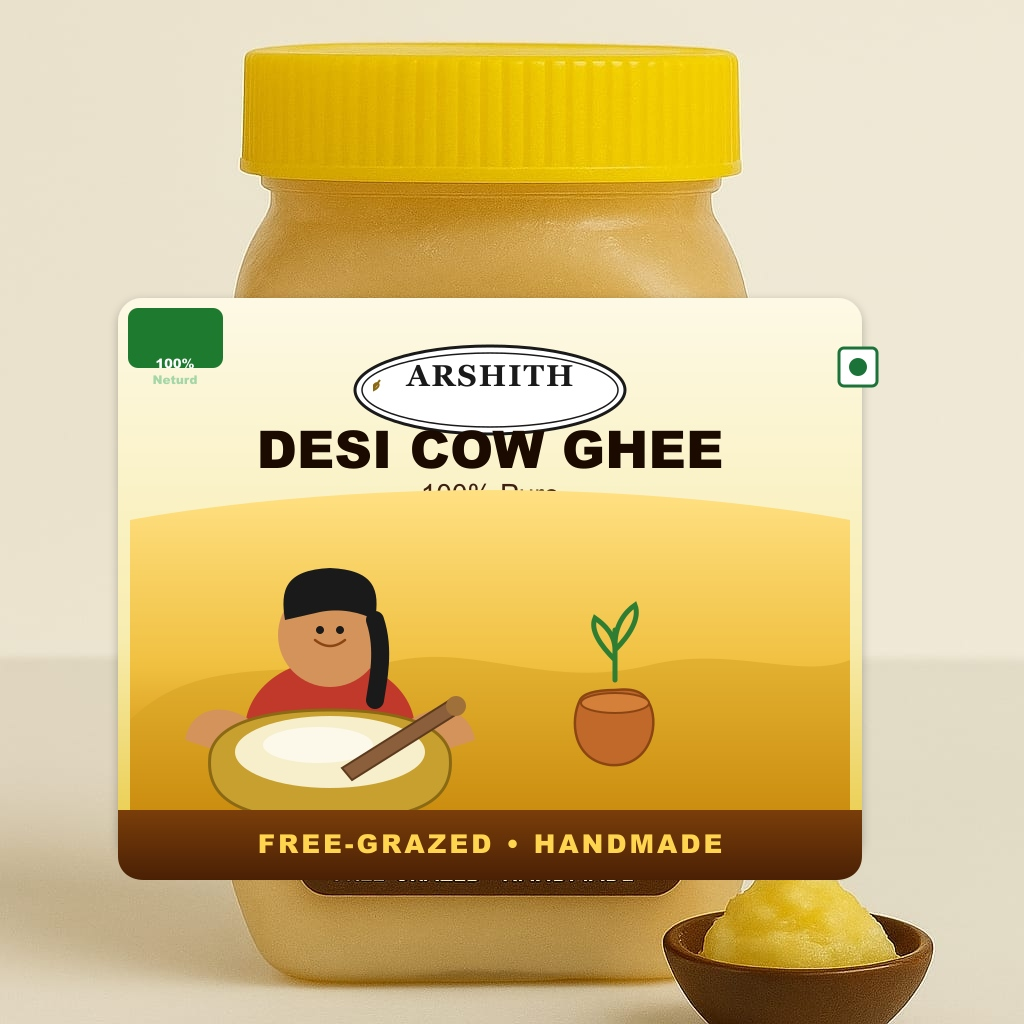
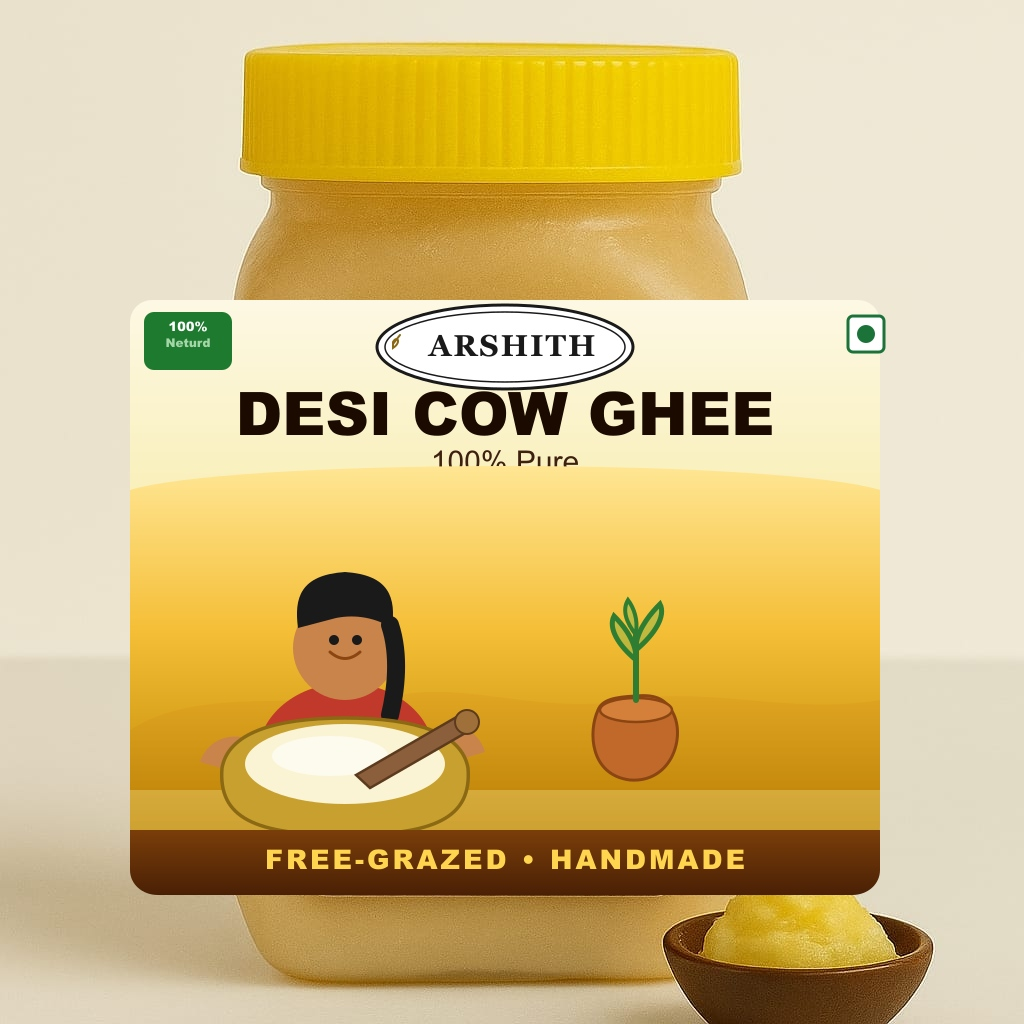
Fix cow ghee front image: label now fits naturally inside jar matching buffalo ghee style

Changed region(s): [[0.0938, 0.2812, 0.875, 0.875], [0.8125, 0.2812, 0.875, 0.4062]]

diff --git a/backend/cow_ghee_front_final.js b/backend/cow_ghee_front_final.js
@@ -1,0 +1,189 @@
+const sharp = require('sharp');
+const fs = require('fs');
+const path = require('path');
+
+// The buffalo jar is 1024x1024.
+// Looking at the label on the original buffalo jar:
+// The label rectangle sits at approximately:
+//   left: ~130, right: ~880 (width ~750)
+//   top: ~345, bottom: ~880 (height ~535)
+//   rounded corners ~22px
+// The label has:
+//   - cream/light yellow background
+//   - top section: 100% Neturd badge (top-left), ARSHITH oval (center), veg dot (top-right)
+//   - DESI [PRODUCT] GHEE bold title
+//   - 100% Pure subtitle
+//   - golden illustration area with woman churning, clay pot, plant
+//   - dark brown footer "FREE-GRAZED • HANDMADE"
+
+const BUFFALO_JAR = 'C:/Users/KRANTI/.gemini/antigravity-ide/brain/825c2531-0eff-4b78-80d4-3401ae54cf02/.user_uploaded/media_1791019439149.jpg';
+
+const TARGET_DIRS = [
+  'c:/Users/KRANTI/Downloads/Arshith_Fresh-main (2)/Arshith_Fresh-main/assets/images/products',
+  'c:/Users/KRANTI/Downloads/Arshith_Fresh-main (2)/Arshith_Fresh-main/frontend/assets/images/products',
+];
+
+// SVG is 1024x1024, label is placed exactly at the same position as the buffalo label
+function makeDesiCowLabel() {
+  return `<svg width="1024" height="1024" viewBox="0 0 1024 1024" xmlns="http://www.w3.org/2000/svg">
+  <defs>
+    <linearGradient id="labelBg" x1="0%" y1="0%" x2="0%" y2="100%">
+      <stop offset="0%" stop-color="#fdf8e4"/>
+      <stop offset="55%" stop-color="#f7eba4"/>
+      <stop offset="100%" stop-color="#e8d060"/>
+    </linearGradient>
+    <linearGradient id="illustBg" x1="0%" y1="0%" x2="0%" y2="100%">
+      <stop offset="0%" stop-color="#ffe694"/>
+      <stop offset="50%" stop-color="#f5bf38"/>
+      <stop offset="100%" stop-color="#c8900a"/>
+    </linearGradient>
+    <linearGradient id="footerBrown" x1="0%" y1="0%" x2="0%" y2="100%">
+      <stop offset="0%" stop-color="#7a3e0a"/>
+      <stop offset="100%" stop-color="#4a2005"/>
+    </linearGradient>
+    <linearGradient id="hillGrad" x1="0%" y1="0%" x2="0%" y2="100%">
+      <stop offset="0%" stop-color="#dda020"/>
+      <stop offset="100%" stop-color="#b87a08"/>
+    </linearGradient>
+  </defs>
+
+  <!-- ─── Label background (matching exact position of buffalo jar label) ─── -->
+  <rect x="130" y="300" width="750" height="545" rx="22" fill="url(#labelBg)"/>
+
+  <!-- ─── TOP BAR: badges + ARSHITH oval ─── -->
+  <!-- 100% Neturd green badge (top left) -->
+  <rect x="144" y="312" width="88" height="58" rx="10" fill="#1e7a2e"/>
+  <text x="188" y="331" font-family="'Arial Black', sans-serif" font-size="13" font-weight="900" fill="#fff" text-anchor="middle">100%</text>
+  <text x="188" y="347" font-family="'Arial Black', sans-serif" font-size="12" font-weight="800" fill="#a5d6a7" text-anchor="middle">Neturd</text>
+
+  <!-- ARSHITH Oval badge (top center) -->
+  <ellipse cx="505" cy="347" rx="128" ry="42" fill="#ffffff" stroke="#1a1a1a" stroke-width="3"/>
+  <ellipse cx="505" cy="347" rx="120" ry="35" fill="none" stroke="#1a1a1a" stroke-width="1.5"/>
+  <!-- Wheat/leaf icon in oval -->
+  <path d="M 393 342 C 397 335, 402 342, 393 348 Z" stroke="#8B6914" stroke-width="2" fill="none"/>
+  <path d="M 393 344 L 400 335" stroke="#8B6914" stroke-width="2" fill="none" stroke-linecap="round"/>
+  <text x="512" y="356" font-family="'Georgia', 'Times New Roman', serif" font-size="30" font-weight="700" fill="#1a1a1a" text-anchor="middle" letter-spacing="2">ARSHITH</text>
+
+  <!-- Veg green square indicator (top right) -->
+  <rect x="848" y="316" width="36" height="36" rx="5" fill="#fff" stroke="#1b7339" stroke-width="3"/>
+  <circle cx="866" cy="334" r="9" fill="#1b7339"/>
+
+  <!-- ─── PRODUCT TITLE ─── -->
+  <text x="505" y="435"
+        font-family="'Arial Black', Impact, sans-serif"
+        font-size="60"
+        font-weight="900"
+        fill="#1a0a00"
+        text-anchor="middle">DESI COW GHEE</text>
+  <text x="505" y="472"
+        font-family="'Arial', sans-serif"
+        font-size="30"
+        fill="#3e2010"
+        text-anchor="middle">100% Pure</text>
+
+  <!-- ─── ILLUSTRATION AREA ─── -->
+  <!-- Golden gradient background panel -->
+  <path d="M 130 490 
+           C 175 476, 320 466, 505 466 
+           C 690 466, 835 476, 880 490 
+           L 880 790 L 130 790 Z"
+        fill="url(#illustBg)"/>
+
+  <!-- Hill silhouettes -->
+  <path d="M 130 730 
+           C 200 685, 300 710, 400 695 
+           C 470 682, 540 715, 630 700 
+           C 710 686, 790 715, 880 700 
+           L 880 830 L 130 830 Z"
+        fill="url(#hillGrad)" opacity="0.55"/>
+
+  <!-- ─── WOMAN ILLUSTRATION (matches buffalo style exactly) ─── -->
+  <!-- Body (red sari) -->
+  <ellipse cx="346" cy="755" rx="88" ry="72" fill="#c0392b"/>
+  <!-- Neck -->
+  <rect x="326" y="668" width="38" height="30" rx="10" fill="#c8844a"/>
+  <!-- Head -->
+  <circle cx="345" cy="648" r="52" fill="#c8844a"/>
+  <!-- Hair - long black ponytail -->
+  <path d="M 298 628 C 294 598, 300 575, 345 572 C 390 575, 396 598, 392 628 C 376 618, 356 614, 336 618 Z"
+        fill="#1a1a1a"/>
+  <!-- Ponytail hanging right -->
+  <path d="M 390 625 C 400 655, 396 690, 390 715"
+        stroke="#1a1a1a" stroke-width="18" fill="none" stroke-linecap="round"/>
+  <!-- Smile -->
+  <path d="M 330 652 Q 345 665, 360 652"
+        stroke="#8B4513" stroke-width="3" fill="none" stroke-linecap="round"/>
+  <!-- Eyes -->
+  <circle cx="334" cy="640" r="5" fill="#1a1a1a"/>
+  <circle cx="357" cy="640" r="5" fill="#1a1a1a"/>
+  <!-- Left arm reaching down to bowl -->
+  <path d="M 262 745 C 235 728, 208 738, 200 762 L 228 770 C 230 752, 248 742, 268 750 Z"
+        fill="#c8844a"/>
+  <!-- Right arm with stick -->
+  <path d="M 428 738 C 455 720, 478 728, 485 752 L 458 760 C 456 742, 438 732, 418 742 Z"
+        fill="#c8844a"/>
+
+  <!-- Golden mixing bowl with cow ghee -->
+  <!-- Bowl outer -->
+  <path d="M 222 768 C 218 818, 255 835, 345 835 C 435 835, 472 818, 468 768 C 462 734, 418 718, 345 718 C 272 718, 228 734, 222 768 Z"
+        fill="#c8a030" stroke="#8B6914" stroke-width="3.5"/>
+  <!-- Ghee inside bowl (lighter gold) -->
+  <ellipse cx="345" cy="764" rx="100" ry="40" fill="#fffde7" opacity="0.9"/>
+  <!-- Ghee shimmer / highlight -->
+  <ellipse cx="330" cy="756" rx="58" ry="20" fill="#ffffff" opacity="0.6"/>
+  <!-- Churner stick in bowl -->
+  <path d="M 460 715 L 474 728 L 370 788 L 356 775 Z"
+        fill="#8B5E3C" stroke="#5C3A1E" stroke-width="2.5"/>
+  <circle cx="467" cy="722" r="12" fill="#A0703A" stroke="#5C3A1E" stroke-width="2"/>
+
+  <!-- ─── CLAY POT with PLANT (right side) ─── -->
+  <!-- Pot body -->
+  <path d="M 598 710 C 588 732, 590 775, 630 780 C 670 783, 685 740, 674 715 C 667 700, 657 694, 636 696 C 614 697, 602 700, 598 710 Z"
+        fill="#c0692a" stroke="#8B4513" stroke-width="3"/>
+  <!-- Pot rim -->
+  <ellipse cx="636" cy="710" rx="36" ry="12" fill="#d4803a" stroke="#8B4513" stroke-width="2.5"/>
+  <!-- Plant stem -->
+  <line x1="636" y1="700" x2="636" y2="635" stroke="#2e7d32" stroke-width="6" stroke-linecap="round"/>
+  <!-- Plant leaves - left -->
+  <path d="M 636 660 C 618 645, 608 628, 614 616 C 622 624, 634 638, 636 655"
+        stroke="#2e7d32" stroke-width="5" fill="#4caf50" fill-opacity="0.3" stroke-linecap="round"/>
+  <!-- Plant leaves - right -->
+  <path d="M 636 650 C 655 634, 666 616, 660 604 C 652 612, 638 628, 636 645"
+        stroke="#2e7d32" stroke-width="5" fill="#4caf50" fill-opacity="0.3" stroke-linecap="round"/>
+  <!-- Top leaf cluster -->
+  <path d="M 636 635 C 626 622, 622 610, 628 600 C 634 608, 638 620, 636 632"
+        stroke="#2e7d32" stroke-width="4" fill="#4caf50" fill-opacity="0.3" stroke-linecap="round"/>
+
+  <!-- ─── FOOTER BROWN BANNER ─── -->
+  <path d="M 130 830 L 880 830 L 880 870 C 880 884, 868 895, 852 895 L 158 895 C 142 895, 130 884, 130 870 Z"
+        fill="url(#footerBrown)"/>
+  <text x="505" y="869"
+        font-family="'Arial Black', sans-serif"
+        font-size="27"
+        font-weight="900"
+        fill="#ffd54f"
+        text-anchor="middle"
+        letter-spacing="3">FREE-GRAZED • HANDMADE</text>
+</svg>`;
+}
+
+async function buildCowFront() {
+  const svgBuf = Buffer.from(makeDesiCowLabel());
+
+  const outBuf = await sharp(BUFFALO_JAR)
+    .composite([{ input: svgBuf, top: 0, left: 0 }])
+    .jpeg({ quality: 97 })
+    .toBuffer();
+
+  const artifactDir = 'C:/Users/KRANTI/.gemini/antigravity-ide/brain/825c2531-0eff-4b78-80d4-3401ae54cf02';
+  fs.writeFileSync(path.join(artifactDir, 'cow_ghee_front_v3.jpg'), outBuf);
+
+  for (const dir of TARGET_DIRS) {
+    fs.writeFileSync(path.join(dir, 'cow_ghee_front.jpg'), outBuf);
+    console.log('Saved cow_ghee_front.jpg to', dir);
+  }
+
+  console.log('Done!');
+}
+
+buildCowFront().catch(console.error);
